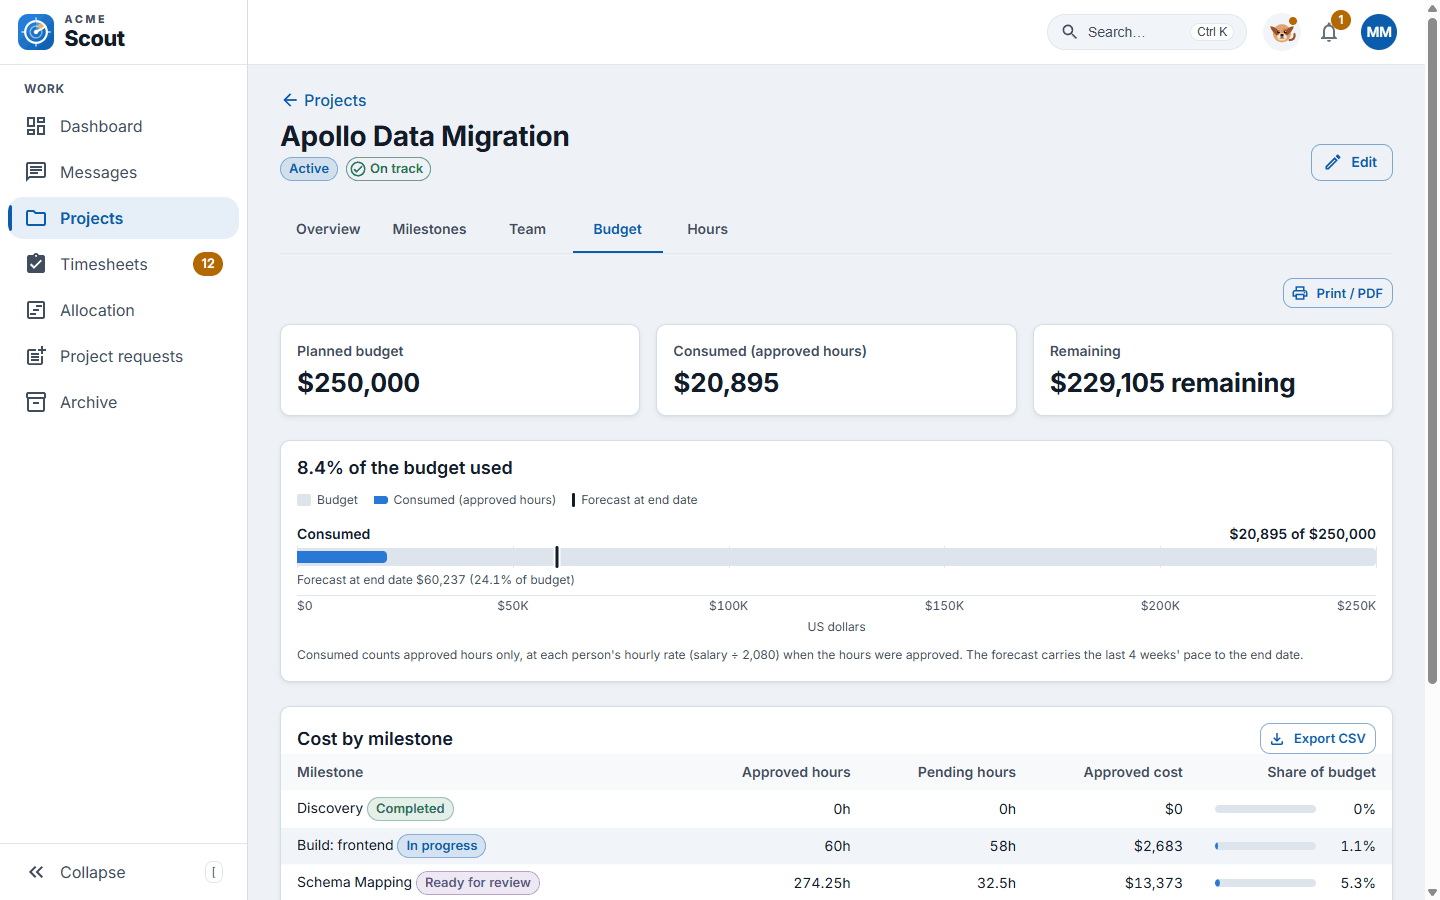
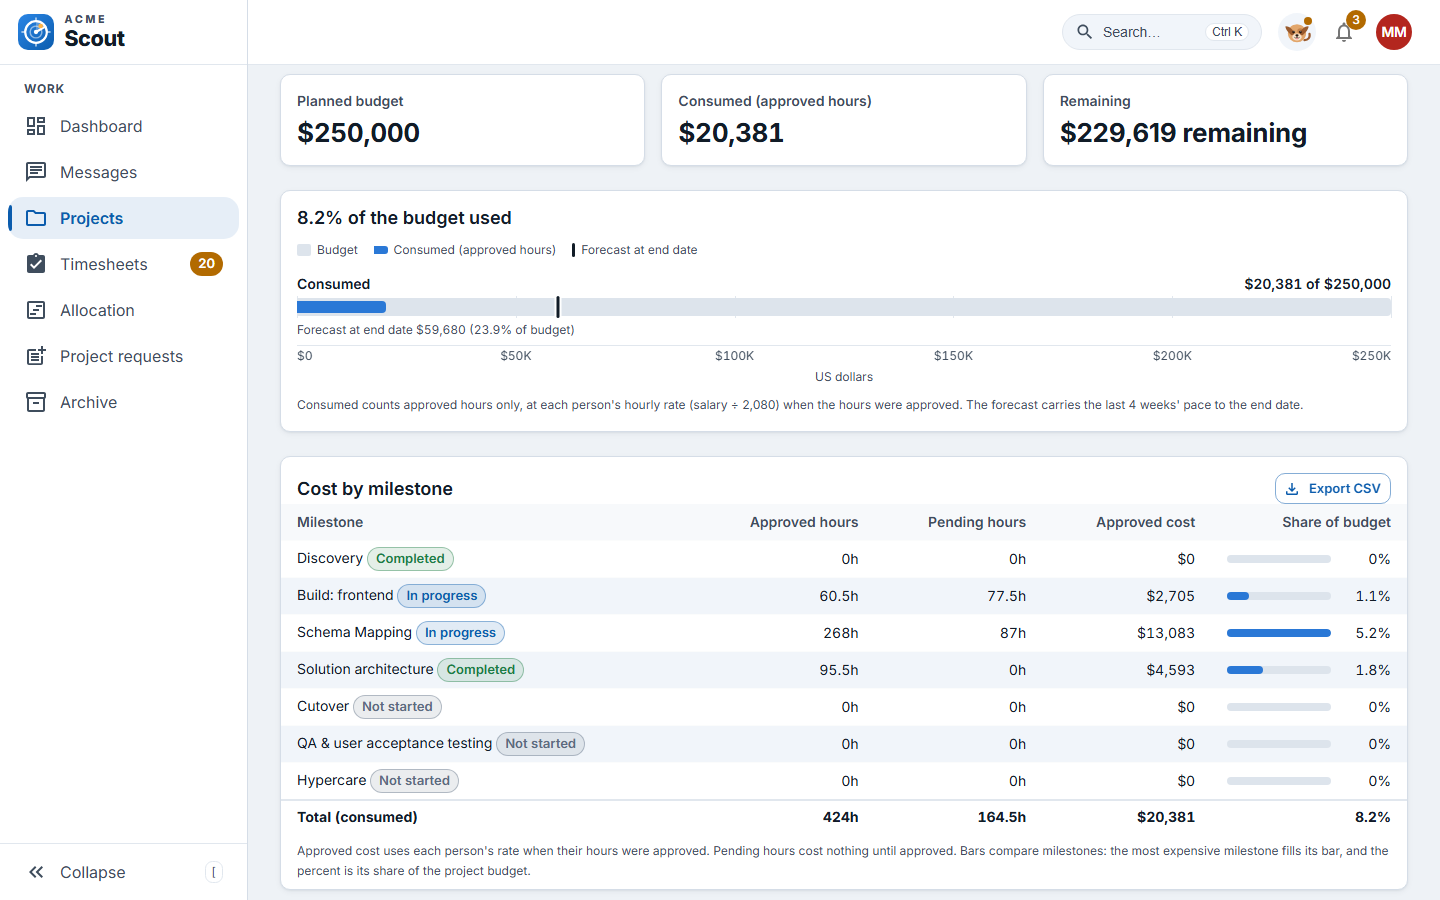
Cost by milestone: bars compare milestones; docs and screenshots for the readable charts

diff --git a/frontend/src/features/projects/projects.test.jsx b/frontend/src/features/projects/projects.test.jsx
@@ -304,6 +304,39 @@ describe('ProjectDetailPage', () => {
     expect(within(row).getByRole('meter', { name: /schema mapping share of budget/i })).toHaveAttribute('aria-valuenow', '12')
   })
 
+  describe('cost by milestone bars', () => {
+    const fillWidth = (meter) => parseFloat(getComputedStyle(meter.firstChild).width)
+
+    async function costTable() {
+      server.use(...detailHandlers())
+      renderAsUser(<ProjectDetailPage />, { user: users.manager, route: '/projects/p1?tab=budget', path: '/projects/:id' })
+      return screen.findByRole('table', { name: /cost by milestone/i })
+    }
+
+    test("the most expensive milestone's bar is full and the others are relative", async () => {
+      const table = await costTable()
+      const big = within(table).getByRole('meter', { name: /schema mapping share of budget/i })
+      const small = within(table).getByRole('meter', { name: /cutover share of budget/i })
+      expect(big).toHaveAttribute('aria-valuemax', '12')
+      expect(small).toHaveAttribute('aria-valuemax', '12')
+      expect(fillWidth(big)).toBeCloseTo(100, 1)
+      expect(fillWidth(small)).toBeCloseTo((8 / 12) * 100, 1)
+    })
+
+    test('the percent text is the share of the budget', async () => {
+      const table = await costTable()
+      const small = within(table).getByRole('meter', { name: /cutover share of budget/i })
+      expect(small).toHaveAttribute('aria-valuenow', '8')
+      expect(small).toHaveAttribute('aria-valuetext', '8%')
+      expect(within(small.closest('tr')).getByText('8%')).toBeInTheDocument()
+    })
+
+    test('the caption explains the bars', async () => {
+      await costTable()
+      expect(screen.getByText(/the most expensive milestone fills its bar/i)).toBeInTheDocument()
+    })
+  })
+
   test('budget tab hides milestone hours from employees but keeps the costs', async () => {
     server.use(...detailHandlers(project(), milestoneCosts(false)))
     renderAsUser(<ProjectDetailPage />, { user: users.employee, route: '/projects/p1?tab=budget', path: '/projects/:id' })

diff --git a/frontend/src/components/DataBar.jsx b/frontend/src/components/DataBar.jsx
@@ -4,18 +4,18 @@ import { chartPalette, TONE_TEXT } from '../app/chartColors.js'
 import { formatPct } from '../lib/format.js'
 
 /**
- * A % for a table cell with an inline data bar behind it: the bar fills to 100% (anything past is capped and the
- * number says by how much), coloured by tone: ok, warning or alert. The number is the accessible value.
+ * A % for a table cell with an inline data bar behind it: the bar fills to `max` (default 100; anything past is capped
+ * and the number says by how much), coloured by tone: ok, warning or alert. The number is the accessible value.
  */
-export default function DataBar({ value, tone = 'ok', label, minWidth = 120 }) {
+export default function DataBar({ value, tone = 'ok', label, minWidth = 120, max = 100 }) {
   const palette = chartPalette(useTheme())
   const pct = Number(value ?? 0)
   return (
     <Stack direction="row" sx={{ alignItems: 'center', gap: 1, minWidth, justifyContent: 'flex-end' }}>
-      <Box role="meter" aria-label={label} aria-valuenow={Math.round(pct * 10) / 10} aria-valuemin={0} aria-valuemax={100}
+      <Box role="meter" aria-label={label} aria-valuenow={Math.round(pct * 10) / 10} aria-valuemin={0} aria-valuemax={max}
         aria-valuetext={formatPct(pct)}
         sx={{ position: 'relative', flex: 1, maxWidth: 120, height: 8, borderRadius: 4, bgcolor: palette.track, overflow: 'hidden' }}>
-        <Box sx={{ position: 'absolute', inset: 0, right: 'auto', width: `${Math.min(Math.max(pct, 0), 100)}%`,
+        <Box sx={{ position: 'absolute', inset: 0, right: 'auto', width: `${Math.min(Math.max((pct / max) * 100, 0), 100)}%`,
           minWidth: pct > 0 ? 3 : 0, bgcolor: palette[tone] ?? palette.ok, borderRadius: '0 4px 4px 0' }} />
       </Box>
       <Typography variant="body2" component="span" sx={{ minWidth: 52, textAlign: 'right', fontVariantNumeric: 'tabular-nums',

diff --git a/frontend/src/features/projects/MilestoneCostTable.jsx b/frontend/src/features/projects/MilestoneCostTable.jsx
@@ -33,6 +33,7 @@ export default function MilestoneCostTable({ project }) {
   const { items, total, hours_visible: showHours } = costs.data
   if (!items.length) return null
   const bold = { fontWeight: 700 }
+  const maxPct = Math.max(0.1, ...items.map((r) => Number(r.budget_pct ?? 0)))   // the costliest milestone fills its bar
   return (
     <TableContainer component={Paper} variant="outlined">
       <Stack direction="row" sx={{ px: 2, pt: 2, gap: 1, justifyContent: 'space-between', alignItems: 'center' }}>
@@ -55,7 +56,7 @@ export default function MilestoneCostTable({ project }) {
               {showHours ? <><TableCell align="right">{formatHours(r.approved_hours)}</TableCell>
                 <TableCell align="right">{formatHours(r.pending_hours)}</TableCell></> : null}
               <TableCell align="right">{formatMoney(r.approved_cost)}</TableCell>
-              <TableCell align="right"><DataBar value={r.budget_pct} label={`${r.milestone.name} share of budget`} /></TableCell>
+              <TableCell align="right"><DataBar value={r.budget_pct} max={maxPct} label={`${r.milestone.name} share of budget`} /></TableCell>
             </TableRow>
           ))}
           <TableRow data-total-row sx={{ '& th, & td': { borderTop: 2, borderColor: 'divider', borderBottom: 0 } }}>
@@ -69,6 +70,7 @@ export default function MilestoneCostTable({ project }) {
       </Table>
       <Typography variant="caption" component="p" sx={{ color: 'text.secondary', px: 2, py: 1 }}>
         Approved cost uses each person's rate when their hours were approved. Pending hours cost nothing until approved.
+        Bars compare milestones: the most expensive milestone fills its bar, and the percent is its share of the project budget.
         {showHours ? null : ' Only the project’s manager and admins see the hours.'}
       </Typography>
     </TableContainer>

diff --git a/README.md b/README.md
@@ -12,7 +12,7 @@ Scout is a project tracking platform for ACME Inc. It gives admins, project mana
 |---|---|
 | **Live site** | https://d3ucnz03j0sngl.cloudfront.net |
 | **Stack** | React 19 · Material UI 9 · React Responsive · Python 3 on AWS Lambda · Aurora PostgreSQL 17 |
-| **Tests** | 1,090 backend (364 unit · 726 integration, 97% coverage) · 831 frontend component (66 files) · 6 end-to-end (3 journeys × desktop + mobile), all passing on 15 Oct — see [TESTING.md](docs/project/TESTING.md) |
+| **Tests** | 1,090 backend (364 unit · 726 integration, 97% coverage) · 853 frontend component (68 files) · 6 end-to-end (3 journeys × desktop + mobile), all passing on 15 Oct — see [TESTING.md](docs/project/TESTING.md) |
 | **Source** | https://github.com/RootMoataz/citi-overwatch (the repository keeps its original name for now) |
 
 ## What it does
@@ -74,8 +74,8 @@ Screenshots from the live site with the demo data (light mode unless noted).
 | **Live now**: running timers tick here, with Warning/Over chips and **Stop timer** | **Change requests**: approve or reject a change to locked timer hours |
 | ![Beacon Mobile App planning board with Backlog, Ready and Scheduled columns of milestone cards](docs/images/planning-board.png) | ![Finalize the plan dialog listing six plan checks, two of them needing fixes](docs/images/finalize-checklist.png) |
 | **Planning board** for a planned project | **Finalize** checks before the project goes active |
-| ![Apollo Data Migration milestone Schema Mapping expanded: priority and difficulty chips, the people on it, the done-when checklist, required skills and pending hours](docs/images/milestones.png) | ![Apollo Data Migration Budget tab: planned, consumed and remaining budget, a forecast marker and cost by milestone](docs/images/budget.png) |
-| **Milestones** with priority, difficulty, people and details | **Budget**: consumed vs planned, forecast, cost per milestone |
+| ![Apollo Data Migration Milestones tab: a state bar of milestones done, then a month-axis timeline with a date range and state on every bar](docs/images/milestones.png) | ![Apollo Data Migration Budget tab: planned, consumed and remaining budget, a forecast marker and cost by milestone with bars compared against the costliest milestone](docs/images/budget.png) |
+| **Milestones**: a state bar and a readable timeline above the list | **Budget**: consumed vs planned, forecast, cost per milestone (the costliest fills its bar) |
 | ![Messages: the Schema Mapping discussion thread with Ana and Ben](docs/images/messages.png) | ![Puppy assistant Summary tab: what needs you, a tip and the top insight](docs/images/puppy.png) |
 | **Messages**: one-to-one and milestone discussions | **Puppy**: a rule-based summary of what needs you |
 
@@ -167,7 +167,7 @@ Connection settings come from `POSTGRES_HOST`, `POSTGRES_PORT`, `POSTGRES_USER`,
 
 ```bash
 cd backend/v1 && python -m pytest --cov=app              # 1,090 unit + integration tests against local Postgres
-cd frontend && npm test                                  # 831 component tests (Vitest + Testing Library)
+cd frontend && npm test                                  # 853 component tests (Vitest + Testing Library)
 cd frontend && npx playwright install chromium webkit    # once
 cd frontend && npm run e2e                               # 3 journeys × desktop Chrome and iPhone 13 (WebKit)
 cd frontend && npm run lint

diff --git a/docs/project/TESTING.md b/docs/project/TESTING.md
@@ -12,10 +12,10 @@ The tests are built for **debugging**, not only for a green tick:
 | Rules (unit) | pytest | part of 364 unit tests | A business rule is wrong: at-risk, over-40, cycles, the capacity cap, usernames, milestone status, priority, routing, claims, planning checks, messaging permissions, insights, reminders, timers and rounding, timer drafts and locks, over-limit thresholds, proof of work, red flags, the PNG sanitiser, or the password policy. No database is involved |
 | Core (unit) | pytest | part of 364 unit tests | The HTTP envelope, router guards, request IDs, hashing and tokens, or the SES fail-fast behaviour |
 | API (integration) | pytest + real PostgreSQL 17 | 726 | An endpoint is wrong: permissions (401/403/404), the executive and public demo guards, validation, archiving, an audit row, a race-safe update, or what one role can see vs another |
-| Frontend (component) | Vitest + React Testing Library + MSW | 831 (66 files) | A screen is wrong: form gating, loading/empty/error states, role-based hiding, or the payload sent to the API |
+| Frontend (component) | Vitest + React Testing Library + MSW | 853 (68 files) | A screen is wrong: form gating, loading/empty/error states, role-based hiding, or the payload sent to the API |
 | End-to-end | Playwright | 3 journeys × 2 devices | The pieces don't fit together in a real browser: real API, real database, real cookies |
 
-Counts as of 2026-10-15: **1,090 backend** (364 unit, 726 integration, 97% coverage) and **831 frontend** in 66 files, plus **6 end-to-end**, all passing. Four date-dependent backend tests fail when the suite is run after 8 pm New York time (see [Known issue](#known-issue-date-dependent-backend-tests)). Results are under [Current results](#current-results-2026-10-15); older dated results further down are snapshots taken at the time.
+Counts as of 2026-10-15: **1,090 backend** (364 unit, 726 integration, 97% coverage) and **853 frontend** in 68 files, plus **6 end-to-end**, all passing. Four date-dependent backend tests fail when the suite is run after 8 pm New York time (see [Known issue](#known-issue-date-dependent-backend-tests)). Results are under [Current results](#current-results-2026-10-15); older dated results further down are snapshots taken at the time.
 
 **Fail-closed guard tests.** Two integration tests walk every registered write route (66 of 114 routes): [`test_public_demo.py`](../../backend/v1/tests/integration/test_public_demo.py) fails while any write route is neither allowed nor denied for the public demo admin, and [`test_executive.py`](../../backend/v1/tests/integration/test_executive.py) fails if the set of routes that let an executive write differs from the expected list, and checks that no executive response carries `salary` or `hourly_rate`. A new endpoint can't ship without a decision for both.
 
@@ -95,8 +95,8 @@ tests/unit:        364 tests
 tests/integration: 726 tests
 
 # frontend: npx vitest run
- Test Files  66 passed (66)
-      Tests  831 passed (831)
+ Test Files  68 passed (68)
+      Tests  853 passed (853)
 
 # frontend: npm run lint && npm run build
 no problems; built in 9.68s

diff --git a/docs/project/LOGIC_WALKTHROUGH.md b/docs/project/LOGIC_WALKTHROUGH.md
@@ -241,7 +241,7 @@ flowchart TD
 - **Code:** `creates_cycle()` and `dependency_order()` in [`app/rules/cycles.py`](../../backend/v1/app/rules/cycles.py). `dependency_order()` is a topological sort that the timeline uses, with ties broken by start date.
 - **Waiting on dependencies** is computed (the view's `blocked: true`, shown as `display_status: "waiting"`, "Waiting on dependencies"). A waiting milestone can't move out of `not_started` ([`app/rules/milestone_status.py`](../../backend/v1/app/rules/milestone_status.py)). Until migration 009 this showed as "Blocked"; *blocked* now means a kickback ([§9b](#9b-kickbacks-and-escalation)).
 - **Example:** with *Discovery → Schema Mapping → Cutover*, making *Discovery* depend on *Cutover* walks Cutover → Schema Mapping → Discovery. That reaches the milestone being edited, so the change is rejected.
-- **UI:** the dependency picker is in [`MilestoneDialog.jsx`](../../frontend/src/features/milestones/MilestoneDialog.jsx), and the date bars in [`Timeline.jsx`](../../frontend/src/components/Timeline.jsx).
+- **UI:** the dependency picker is in [`MilestoneDialog.jsx`](../../frontend/src/features/milestones/MilestoneDialog.jsx), and the charts on the Milestones tab: [`MilestoneStatusBar.jsx`](../../frontend/src/components/MilestoneStatusBar.jsx), one bar of the project's milestones by state headed "<done> of <total> milestones done", and the date bars in [`Timeline.jsx`](../../frontend/src/components/Timeline.jsx), on a month axis with "<Mon D> – <Mon D> · <state>" on every bar, a progress fill, an overdue mark and a "You" tag on your own milestones; clicking a bar (or pressing Enter) opens that milestone. On the Budget tab, [`MilestoneCostTable.jsx`](../../frontend/src/features/projects/MilestoneCostTable.jsx) draws each milestone's share of the budget as a bar scaled to the costliest milestone, which fills its bar, so the bars compare milestones while the percent stays the share of the whole budget.
 
 ## 8. The planned 40-hour cap
 

diff --git a/docs/project/USER_STORIES.md b/docs/project/USER_STORIES.md
@@ -172,7 +172,7 @@ Each panel is titled with the question it answers, and the panels are labelled r
 
 - **Success:**
   - The Budget tab shows the planned budget, the consumed amount (approved hours only, at each person's hourly rate when approved), the remaining amount and the percentage used, plus a bar chart.
-  - A "Cost by milestone" table lists each milestone's approved cost and share of the budget. Its total row is the Consumed figure, so the two always agree. The project's manager and admins also see approved and pending hours; nobody sees an hourly rate.
+  - A "Cost by milestone" table lists each milestone's approved cost and share of the budget, with a bar scaled to the costliest milestone. Its total row is the Consumed figure, so the two always agree. The project's manager and admins also see approved and pending hours; nobody sees an hourly rate.
   - Admins set the budget, and the project's manager can adjust it. Every change is audited.
 - **Failure:** a negative budget is rejected on the field.
 
@@ -205,7 +205,8 @@ Each panel is titled with the question it answers, and the panels are labelled r
 **As** anyone on the project, **I want** a timeline **so that** I can see what waits on what.
 
 - **Success:**
-  - Horizontal date bars appear in dependency order, with a "Today" marker.
+  - A bar above the timeline shows the milestones by state, headed "<done> of <total> milestones done".
+  - Horizontal date bars appear in dependency order on a month axis, with a "Today" marker. Every bar reads "<Mon D> – <Mon D> · <state>", shows its progress, marks an overdue milestone and tags your own with "You"; clicking one opens it.
   - Each milestone lists what it waits on, with a "Waiting on: …" tooltip on its disabled Start button.
 - **Empty:** "No milestones yet", with **Add milestone** for managers.
 

diff --git a/docs/project/DEMO_SCRIPT.md b/docs/project/DEMO_SCRIPT.md
@@ -265,7 +265,7 @@ Say:
 > salaries are stripped from every executive response; photos are rebuilt from checked pixels by a pure-Python PNG
 > sanitiser, so nothing uploaded is served as-is.
 >
-> Tests: 1,090 backend tests at 97% coverage, 831 frontend component tests, and 6 end-to-end runs on desktop and
+> Tests: 1,090 backend tests at 97% coverage, 853 frontend component tests, and 6 end-to-end runs on desktop and
 > iPhone, all passing on 15 October.
 >
 > Next: server-side email needs an SES endpoint, which is waiting on the instructors, and the GitHub repository gets
@@ -306,7 +306,7 @@ One open kickback per milestone and one running timer per person are enforced by
 submissions keep a frozen copy of each payroll CSV.
 
 **Testing strategy?** Test-first. Business rules are pure functions with exhaustive edge cases (364 unit tests).
-726 integration tests run against a real PostgreSQL 17, because mocks hide SQL bugs. 831 component tests use Vitest
+726 integration tests run against a real PostgreSQL 17, because mocks hide SQL bugs. 853 component tests use Vitest
 and MSW, where an unhandled request fails the test. 6 Playwright runs cover 3 journeys on desktop Chrome and iPhone
 13, all passing on 15 October. Two fail-closed tests walk every write route for the executive and demo-admin guards.
 
